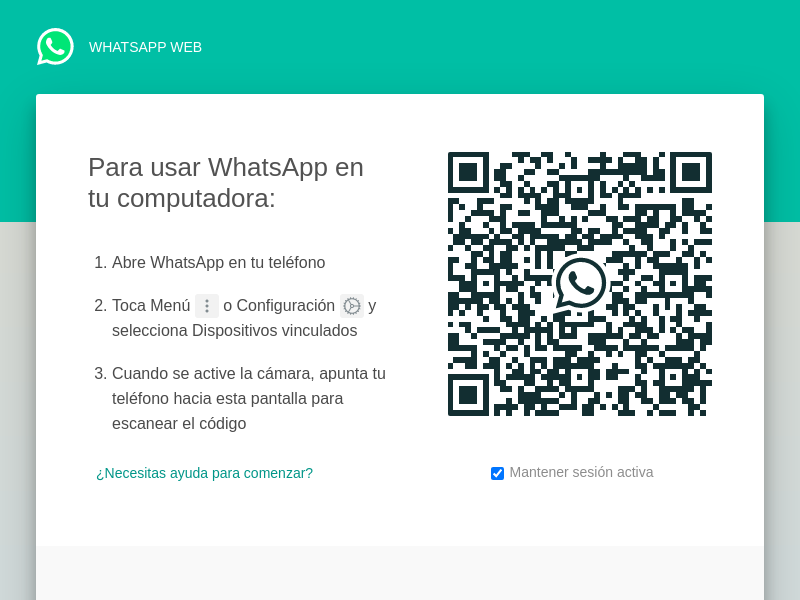
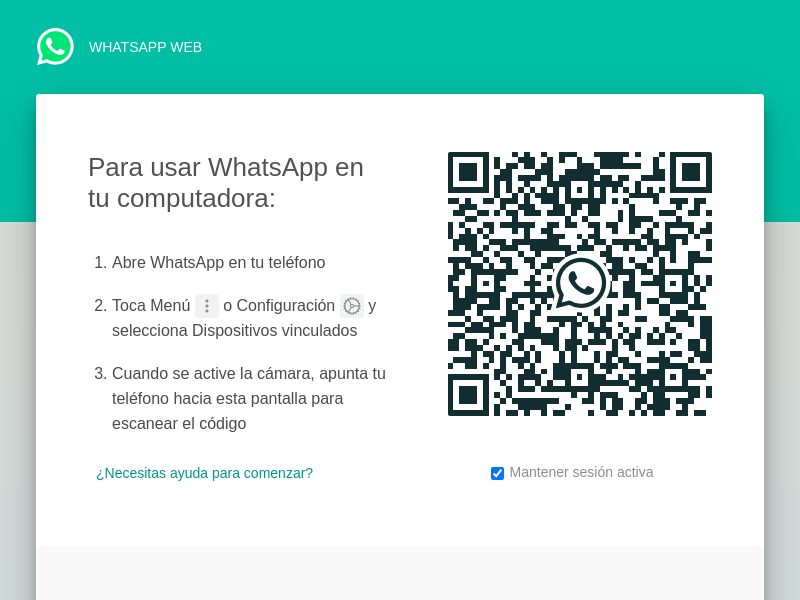
Se modificaron los links de los assets de las imagenes

Changed region(s): [[0.5625, 0.24, 0.9062, 0.72]]

diff --git a/public/js/index.js b/public/js/index.js
@@ -21,7 +21,7 @@ const login = () => {
           '<span class="material-icons">qr_code_2</span> <p class="mb-0">Solicitar Codigo QR.</p>';
         console.log(res);
 
-        codeImg.setAttribute("src", `img/${res.data.img}`);
+        codeImg.setAttribute("src", `../img/${res.data.img}`);
         loginBtn.style.display = "none";
       } catch (err) {
         console.log(err);

diff --git a/whats-app.js b/whats-app.js
@@ -51,7 +51,7 @@ const getQRImage = async () => {
     /* const path = "codigo-qr.png"; */
     /* console.log("QR-code does not exist:", path); */
   } catch (error) {
-    console.log("Error para obtener Codgi QR", error);
+    console.log("Error para obtener Codigo QR", error);
   }
 };
 
